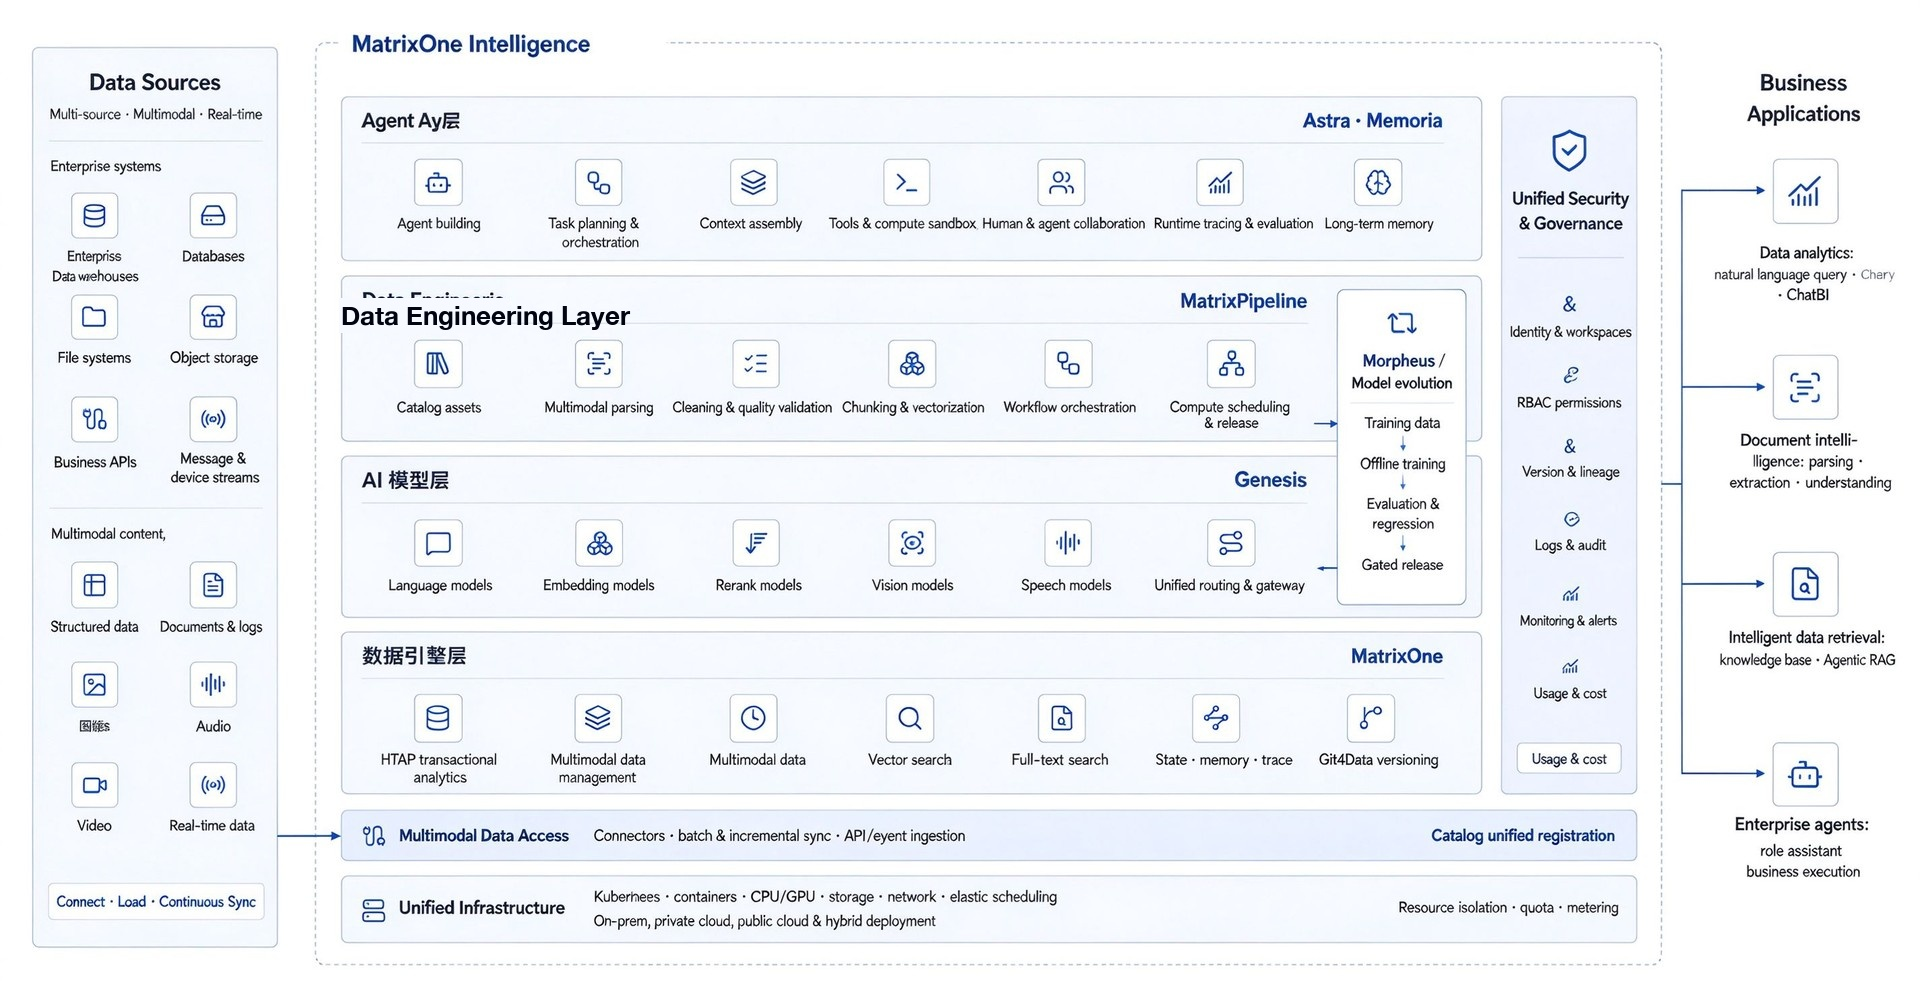
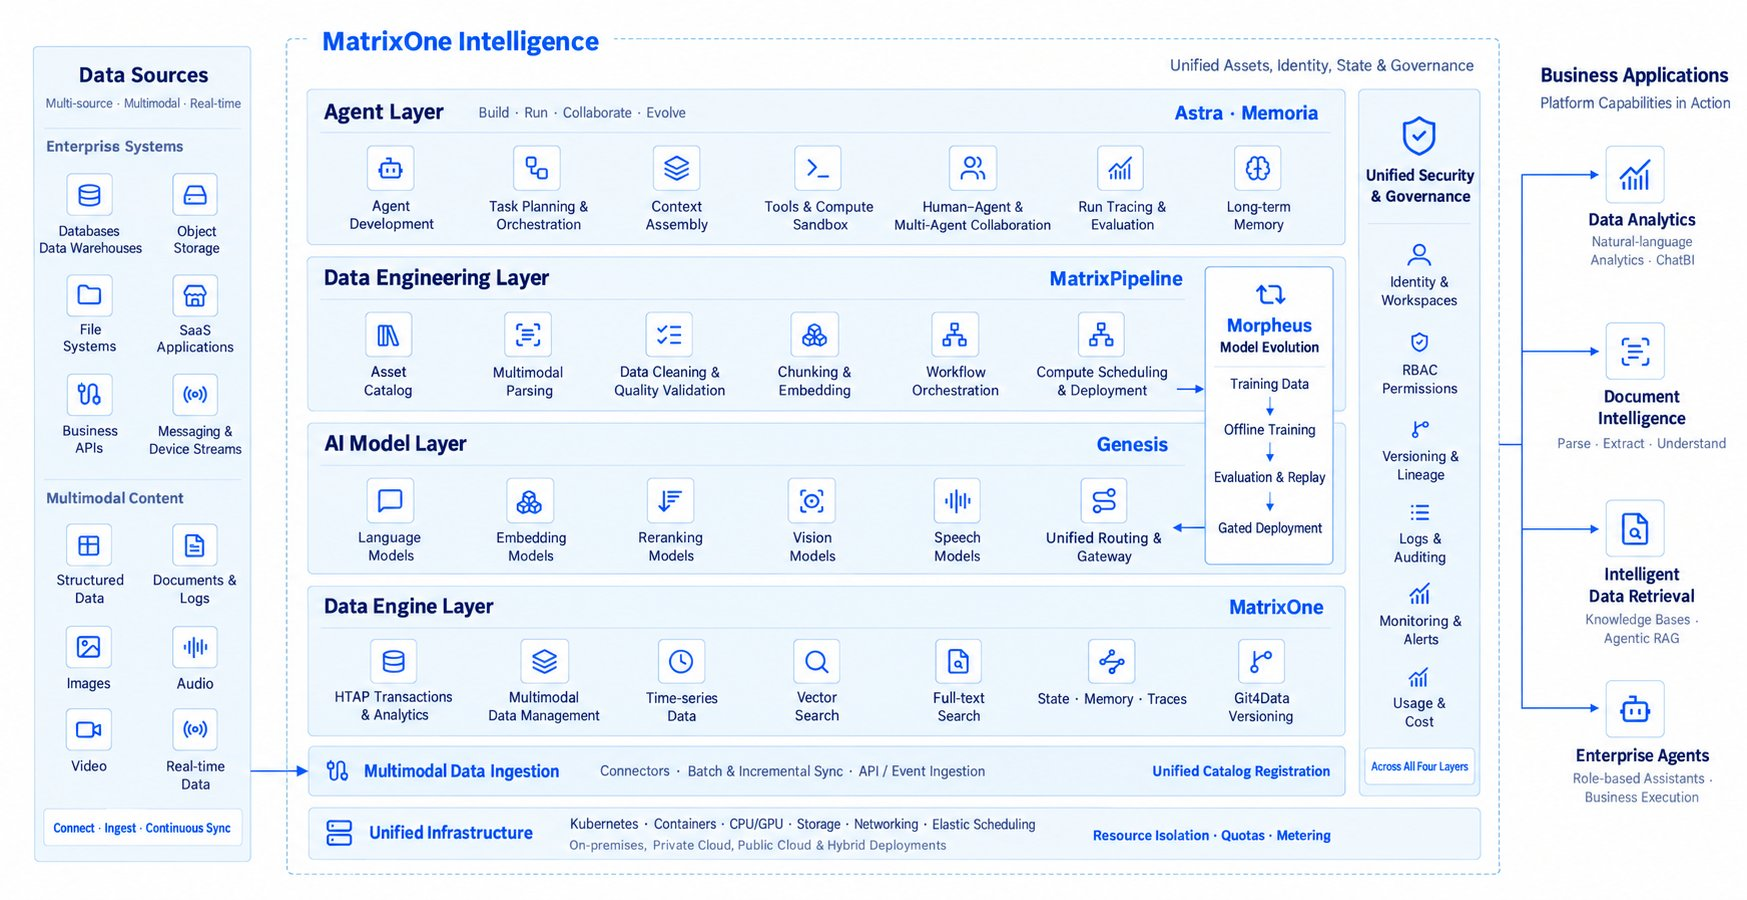
update: replace architecture figures with official artwork (zh HD + en translation), remove old zh png

diff --git a/matrixorigin/moi-5-second-round-beta/index.md b/matrixorigin/moi-5-second-round-beta/index.md
@@ -39,7 +39,7 @@ translations:
 
 如果您是第一次接触 MOI，这里用三句话说明：MOI 是一体化企业级 AI 基础设施平台，提供数据接入与处理、模型调用和智能体构建三部分能力。整理好的数据与知识，可以供智能体查询；已经配置好的算子和工作流，可以作为工具与技能继续用于后续任务。企业积累的数据、知识和处理方法，由此能够在不同应用场景里复用。
 
-![MOI 平台架构](./images/1.png)
+![MOI 平台架构](./images/1.jpg)
 
 您可以从自己的需求出发，使用其中的能力：
 
